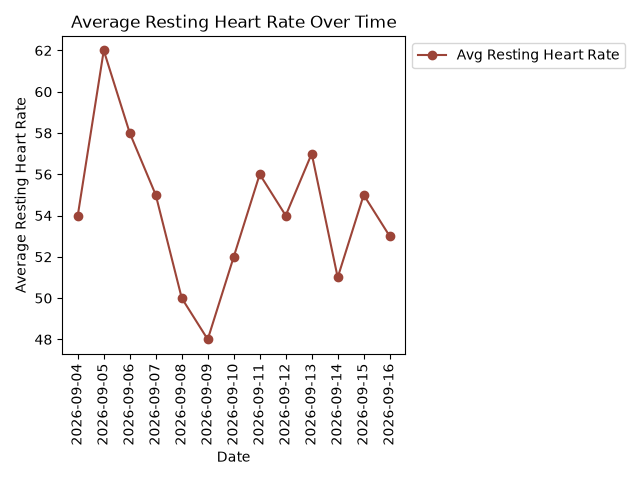
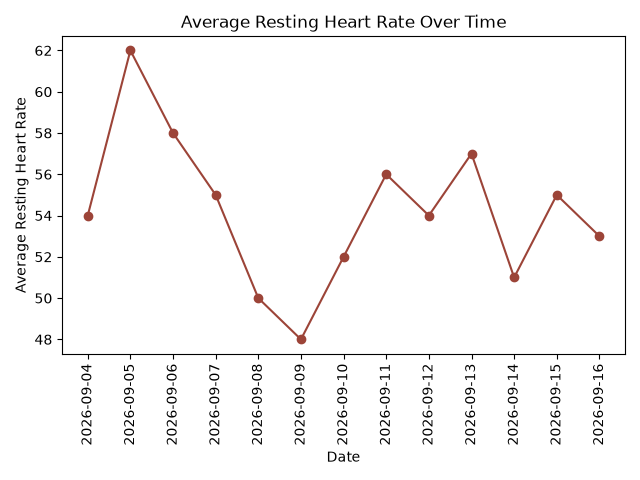
E.4: Updates to visualizations

diff --git a/dataprep.html b/dataprep.html
@@ -142,11 +142,11 @@
   <div class="figure-grid">
     <figure class="figure">
   <img src="images/dataprep/sleep_stage_over_time_bar.png" alt="Stacked bar chart of sleep stage duration by night" style="width:100%; display:block; border-radius:4px;">
-  <figcaption>The largest portion of most nights was classified as "Light Sleep". "REM" and "Deep Sleep" varied more night to night. Total sleep also has a wide range from under 5 hours to nearly 10.</figcaption>
+  <figcaption>The largest portion of most nights was classified as "Light Sleep." "REM" and "Deep Sleep" varied more night to night. Total sleep also has a wide range from under 5 hours to nearly 10.</figcaption>
 </figure>
     <figure class="figure">
   <img src="images/dataprep/hrv_vs_next_day_stress_scatter.png" alt="Scatter plot of overnight HRV vs next-day average stress" style="width:100%; display:block; border-radius:4px;">
-  <figcaption>Data points show a general decrease in next-day stress as overnight HRV increases, however as more data is collected, this potential trend may change.</figcaption>
+  <figcaption>Data points show a general decrease in next-day stress as overnight HRV increases. However as more data is collected, this potential trend may change.</figcaption>
 </figure>
     <figure class="figure">
   <img src="images/dataprep/total_calories_vs_hrv_scatter.png" alt="Scatter plot of total calories versus overnight HRV" style="width:100%; display:block; border-radius:4px;">
@@ -158,11 +158,11 @@
 </figure>
     <figure class="figure">
   <img src="images/dataprep/body_battery_charged_vs_drained_bar.png" alt="Grouped bar chart of body battery charged versus drained by day" style="width:100%; display:block; border-radius:4px;">
-  <figcaption>Some days show drained clearly exceeding charged (9/4, 9/8, 9/11, 9/13), while others go the other way (9/6, 9/9, 9/15, 9/16). This data follows the daily activity/intensity levels.</figcaption>
+  <figcaption>Some days show drained clearly exceeding charged (9/4, 9/8, 9/11, 9/13), while others go the other way (9/6, 9/9, 9/15, 9/16). This data is directly reflective of each day's activity/intensity levels.</figcaption>
 </figure>
     <figure class="figure">
   <img src="images/dataprep/body_battery_drained_vs_next_night_sleep_score_scatter.png" alt="Scatter plot of body battery drained versus next night's sleep score" style="width:100%; display:block; border-radius:4px;">
-  <figcaption>Sleep score is shifted forward one day so each day's body battery drained lines up with the following night's sleep score. There appears to be a slight negative correlation between body battery drained and sleep score. The higher the loss in body battery (increased daily stress), the lower the sleep score that night.</figcaption>
+  <figcaption>Sleep score is shifted forward one day so each day's body battery (drained) lines up with the following night's sleep score. There appears to be a slight negative correlation between body battery drained and sleep score. The higher the loss in body battery (increased daily stress), the lower the sleep score that night.</figcaption>
 </figure>
     <figure class="figure">
   <img src="images/dataprep/average_respiration_rate_sleep_over_time.png" alt="Scatter plot of average sleep respiration rate over time" style="width:100%; display:block; border-radius:4px;">
@@ -171,6 +171,10 @@
     <figure class="figure">
   <img src="images/dataprep/average_respiration_rate_sleep_vs_sleep_score.png" alt="Scatter plot of average sleep respiration rate versus sleep score" style="width:100%; display:block; border-radius:4px;">
   <figcaption>With the exception of one outlier in this current dataset, there appears to be a general downward slope when comparing average sleep respiration rate to overall sleep score. As average sleep respiration rate decreases, overall sleep score tends to increase.</figcaption>
+</figure>
+    <figure class="figure">
+  <img src="images/dataprep/average_sleep_stress_over_time.png" alt="Line chart of average sleep stress over time" style="width:100%; display:block; border-radius:4px;">
+  <figcaption>Average sleep stress ranges from under 10 to over 60 with no clear trend in either direction. When compared with other visualizations in this analysis, 9/13, which stands out as a night with particularly high sleep stress also shares a high respiration rate, high levels of body battery both drained and charged, and zero intensity minutes. This suggests strong correlations between all these metrics.</figcaption>
 </figure>
     <figure class="figure">
   <img src="images/dataprep/average_resting_heart_rate_over_time.png" alt="Line chart of average resting heart rate over time" style="width:100%; display:block; border-radius:4px;">
@@ -186,11 +190,11 @@
 </figure>
     <figure class="figure">
   <img src="images/dataprep/correlation_heatmap.png" alt="Correlation heatmap of twelve key recovery and activity metrics" style="width:100%; display:block; border-radius:4px;">
-  <figcaption>HRV and overall sleep score both correlate strongly and negatively with stress and heart rate metrics, forming a coherent recovery cluster. Deep sleep percent is also a standout, showing consistently weaker correlations with every other metric, indicating this sleep stage may be the most important in terms of next day recovery.</figcaption>
+  <figcaption>The metric that correlates most strongly with overall sleep score (0.90) is "total sleep duration." Although, the highest correlation from any individual sleep stage is "REM sleep seconds" at 0.83. At this stage in data collection, a counterintuitive trend has emerged: on days with an increased drainage of "body battery," "overall sleep score" and "REM sleep seconds" both tend to decrease.</figcaption>
 </figure>
     <figure class="figure">
   <img src="images/dataprep/intensity_minutes_by_day.png" alt="Grouped bar chart of moderate and vigorous intensity minutes by day" style="width:100%; display:block; border-radius:4px;">
-  <figcaption>Vigorous activity dominates on most active days, while moderate-intensity minutes rarely appear except on 9/6 and 9/7. Days that show no intensity levels are representative of genuine rest days rather than missing data.</figcaption>
+  <figcaption>Vigorous activity dominates on most active days, while moderate-intensity minutes rarely appear. Days that show no intensity levels are representative of genuine rest days rather than missing data.</figcaption>
 </figure>
   </div>
 </div>

diff --git a/scripts/visualizations.py b/scripts/visualizations.py
@@ -44,11 +44,10 @@ plt.close()
 ### Total Calories vs HRV (Scatterplot) ###
 
 fig, ax = plt.subplots()
-ax.scatter(clean_data["total calories"], clean_data["hrv last night avg"], label="Total Calories vs HRV", color="#9C4438")
-ax.set_title("Total Calories vs Overnight HRV (Avg)")
+ax.scatter(clean_data["total calories"], clean_data["hrv last night avg"], label="Total Calories Burned vs HRV", color="#9C4438")
+ax.set_title("Total Calories Burned vs Overnight HRV (Avg)")
 ax.set_ylabel("Overnight HRV (Avg)")
-ax.set_xlabel("Total Calories")
-ax.legend(loc="upper left", bbox_to_anchor=(1, 1))
+ax.set_xlabel("Total Calories Burned")
 
 plt.xticks(rotation = 45)
 plt.tight_layout()
@@ -127,6 +126,21 @@ plt.close()
 
 
 ### Visualization #9 ###
+### Average Sleep Stress Over Time ###
+
+fig, ax = plt.subplots()
+ax.plot(clean_data["date"],clean_data["avg sleep stress"],label="Avg Sleep Stress",marker = "o", color="#9C4438")
+ax.set_title("Average Sleep Stress Over Time")
+ax.set_xlabel("Date")
+ax.set_ylabel("Average Sleep Stress")
+
+plt.xticks(rotation = 90)
+plt.tight_layout()
+plt.savefig("../images/dataprep/average_sleep_stress_over_time.png")
+plt.close()
+
+
+### Visualization #10 ###
 ### Average Resting Heart Rate Over Time ###
 
 fig, ax = plt.subplots()
@@ -134,7 +148,6 @@ ax.plot(clean_data["date"],clean_data["resting heart rate (overnight)"],label="A
 ax.set_title("Average Resting Heart Rate Over Time")
 ax.set_xlabel("Date")
 ax.set_ylabel("Average Resting Heart Rate")
-ax.legend(loc="upper left", bbox_to_anchor=(1, 1))
 
 plt.xticks(rotation = 90)
 plt.tight_layout()
@@ -142,7 +155,7 @@ plt.savefig("../images/dataprep/average_resting_heart_rate_over_time.png")
 plt.close()
 
 
-### Visualization #10 ###
+### Visualization #11 ###
 ### Sleep Score Distribution ###
 
 fig, ax = plt.subplots()
@@ -155,7 +168,7 @@ plt.savefig("../images/dataprep/sleep_score_distribution.png")
 plt.close()
 
 
-### Visualization #11 ###
+### Visualization #12 ###
 ### Recovery Metric Boxplots ###
 plot_data = [
     clean_data["overall sleep score"],
@@ -176,36 +189,39 @@ plt.savefig("../images/dataprep/recovery_metrics_boxplots.png")
 plt.close()
 
 
-### Visualization #12 ###
+### Visualization #13 ###
 ### Correlation Heat Map ###
 
 # From the eda_exploration notebook:
 
 corr_columns = [
-    "avg overnight HRV",
-    "overall sleep score",
-    "avg sleep stress",
-    "resting heart rate",
-    "total steps",
-    "avg respiration (sleep)",
-    "body battery charged",
-    "max heart rate",
-    "deep sleep percent",
-    "moderate intensity minutes",
-    "min heart rate",
-    "awake count"
+   "avg overnight HRV",
+   "overall sleep score",
+   "avg sleep stress",
+   "resting heart rate",
+   "body battery drained",
+   "avg respiration (sleep)",
+   "body battery charged",
+   "deep sleep seconds",
+   "rem sleep seconds",
+   "sleep total seconds",
+   "vigorous intensity minutes",
+   "min heart rate",
+   "awake count"
 ]
+correlation_data = clean_data[corr_columns].copy()
+correlation_data["previous day body battery drained"] = clean_data["body battery drained"].shift(1)
 
 # Plotting the heatmap
 plt.figure(figsize=(12, 10))
-sns.heatmap(clean_data[corr_columns].corr(), annot=True, fmt=".2f", cmap="coolwarm", square=True, cbar_kws={"shrink": .8})
+sns.heatmap(correlation_data.corr(), annot=True, fmt=".2f", cmap="coolwarm", square=True, cbar_kws={"shrink": .8})
 plt.title("Correlation Heatmap")
 plt.tight_layout()
 plt.savefig("../images/dataprep/correlation_heatmap.png")
 plt.close()
 
 
-### Visualization #13 ###
+### Visualization #14 ###
 ### Intensity Minutes by Day###
 
 fig, ax = plt.subplots()
